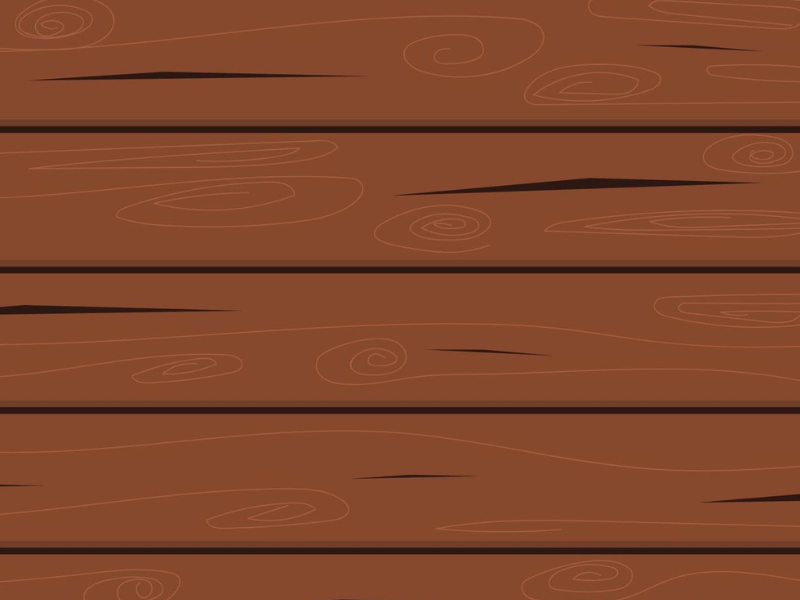
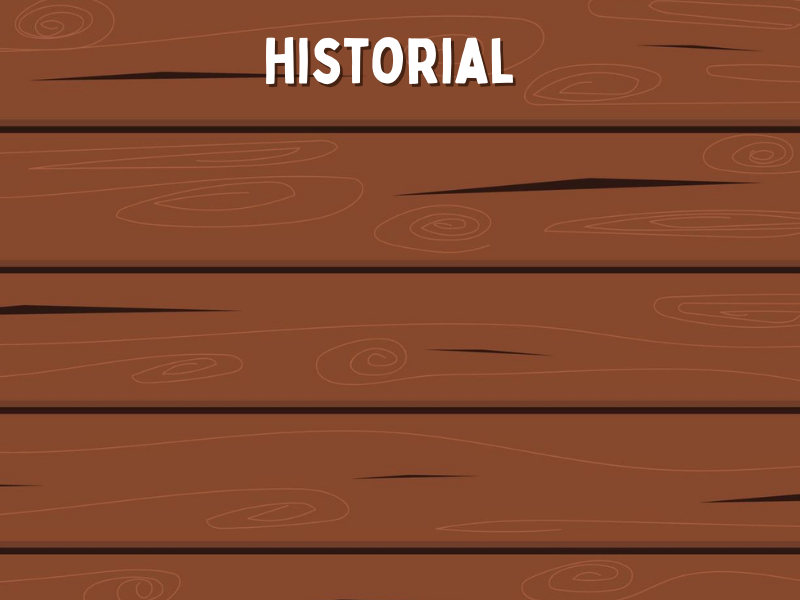
Colores en el historial segun quien ganó y bug de puntos extras en el historial solucionado

Changed region(s): [[0.3125, 0.06, 0.6562, 0.15]]

diff --git a/Match.cpp b/Match.cpp
@@ -523,22 +523,30 @@ Match::Match(Window *w) {
 void Match::actualizar(Juego &j){
 	
 	
-	if(player1_puntos > 2 or player2_puntos > 2){
+	if(player1_puntos >= puntos_para_ganar or player2_puntos >= puntos_para_ganar){
 		
-		if(player1_puntos > 2){
+		Partida partida;
+		
+		if(player1_puntos >= puntos_para_ganar){
 			sf::sleep(sf::seconds(3));
 			j.actualizarEscena(new Ganador(m_window, true, player1_puntos, player2_puntos));
+			partida.player1win = true;
 		}
-		if(player2_puntos > 2){
+		if(player2_puntos >= puntos_para_ganar){
 			sf::sleep(sf::seconds(3));
 			j.actualizarEscena(new Ganador(m_window, false, player1_puntos, player2_puntos));
+			partida.player1win = false;
 		}
 		
 		/*GuardarPartida();*/
-		Partida partida;
-		partida.player1puntos = player1_puntos;
-		partida.player2puntos = player2_puntos;
-		partida.player1win = true;
+		if(partida.player1win){			
+			partida.player1puntos = puntos_para_ganar;
+			partida.player2puntos = player2_puntos;
+		}else{
+			partida.player1puntos = player1_puntos;
+			partida.player2puntos = puntos_para_ganar;
+		}
+		
 		j.agregarPartida(partida);
 	}
 	
@@ -565,22 +573,25 @@ void Match::actualizar(Juego &j){
 			}
 		}
 		
-		if(player1_puntos > 2 or player2_puntos > 2){
+		if(player1_puntos >= puntos_para_ganar or player2_puntos >= puntos_para_ganar){
 			
-			if(player1_puntos > 2){
+			Partida partida;
+			
+			if(player1_puntos >= puntos_para_ganar){
 				sf::sleep(sf::seconds(1));
 				j.actualizarEscena(new Ganador(m_window, true, player1_puntos, player2_puntos));
+				partida.player1win = true;
 			}
-			if(player2_puntos > 2){
+			if(player2_puntos >= puntos_para_ganar){
 				sf::sleep(sf::seconds(1));
 				j.actualizarEscena(new Ganador(m_window, false, player1_puntos, player2_puntos));
+				partida.player1win = false;
 			}
 			
 			/*GuardarPartida();*/
-			Partida partida;
 			partida.player1puntos = player1_puntos;
 			partida.player2puntos = player2_puntos;
-			partida.player1win = true;
+			
 			j.agregarPartida(partida);
 		}
 		

diff --git a/Historial.cpp b/Historial.cpp
@@ -31,9 +31,8 @@ Historial::Historial(Window *w) : m_window(w){
 	
 	for(size_t i=0;i<texts.size();i++) { 
 		texts[i].setStyle(sf::Text::Bold);
-		texts[i].setFillColor(sf::Color::Black);
 		texts[i].setFont(font);
-		texts[i].setPosition(140, 50);
+		texts[i].setPosition(140, 120);
 	}
 }
 
@@ -49,7 +48,12 @@ void Historial::actualizar(Juego &j){
 			aux ++;
 			string puntos = to_string(v[i].player1puntos);
 			string puntos2 = to_string(v[i].player2puntos);
-			texts[i].move(0, aux*100);
+			if(v[i].player1win){
+				texts[i].setFillColor(sf::Color::Green);
+			}else{
+				texts[i].setFillColor(sf::Color::Red);
+			}
+			texts[i].move(0, aux*80);
 			texts[i].setString("Tus puntos: "+ puntos + "                 " + "Puntos del rival: " + puntos2);
 			
 		}

diff --git a/Match.h b/Match.h
@@ -17,6 +17,7 @@ private:
 	int player2_puntos = 0;
 	bool jugar_primero = true;
 	int cont = 0;
+	int puntos_para_ganar = 2;
 	bool aux = true;
 	Window *m_window;
 	
